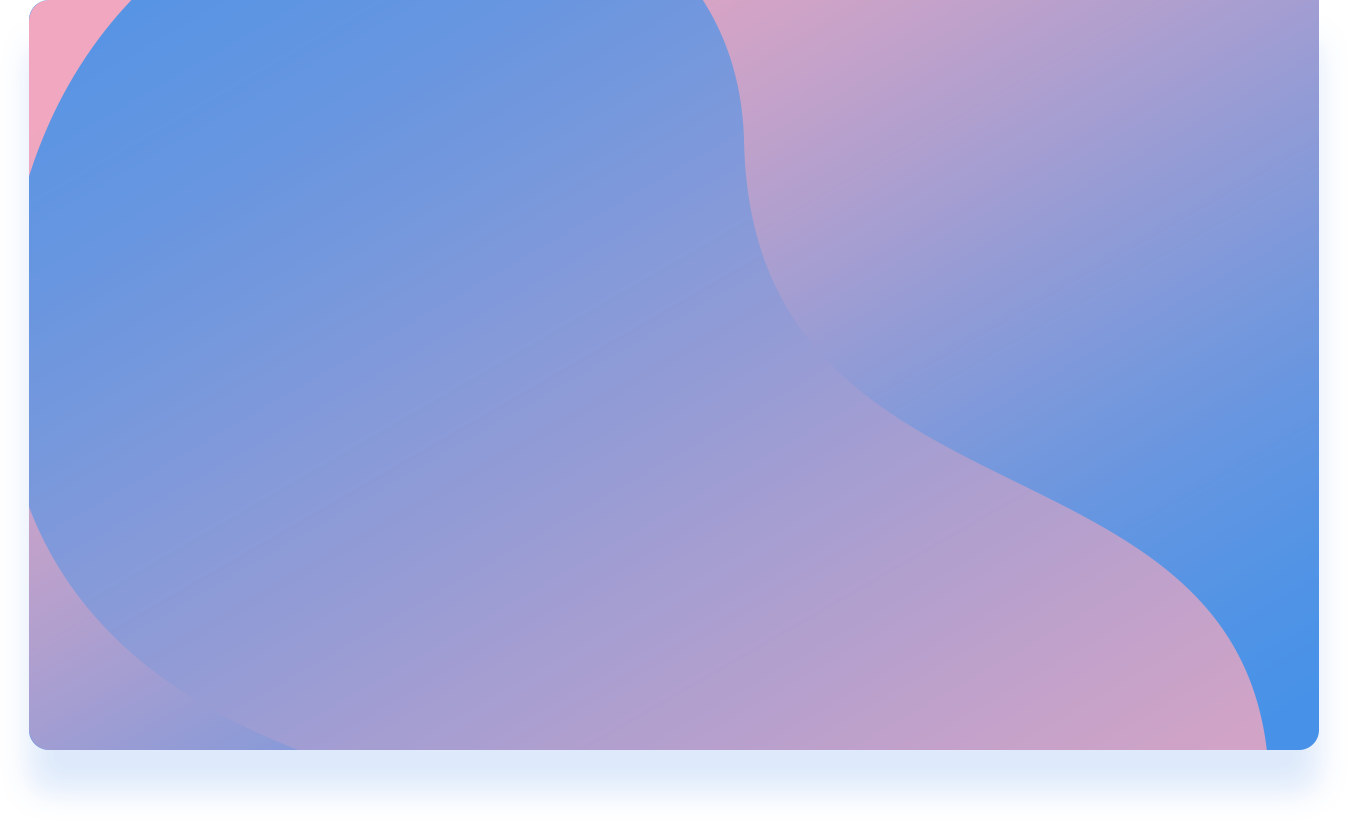
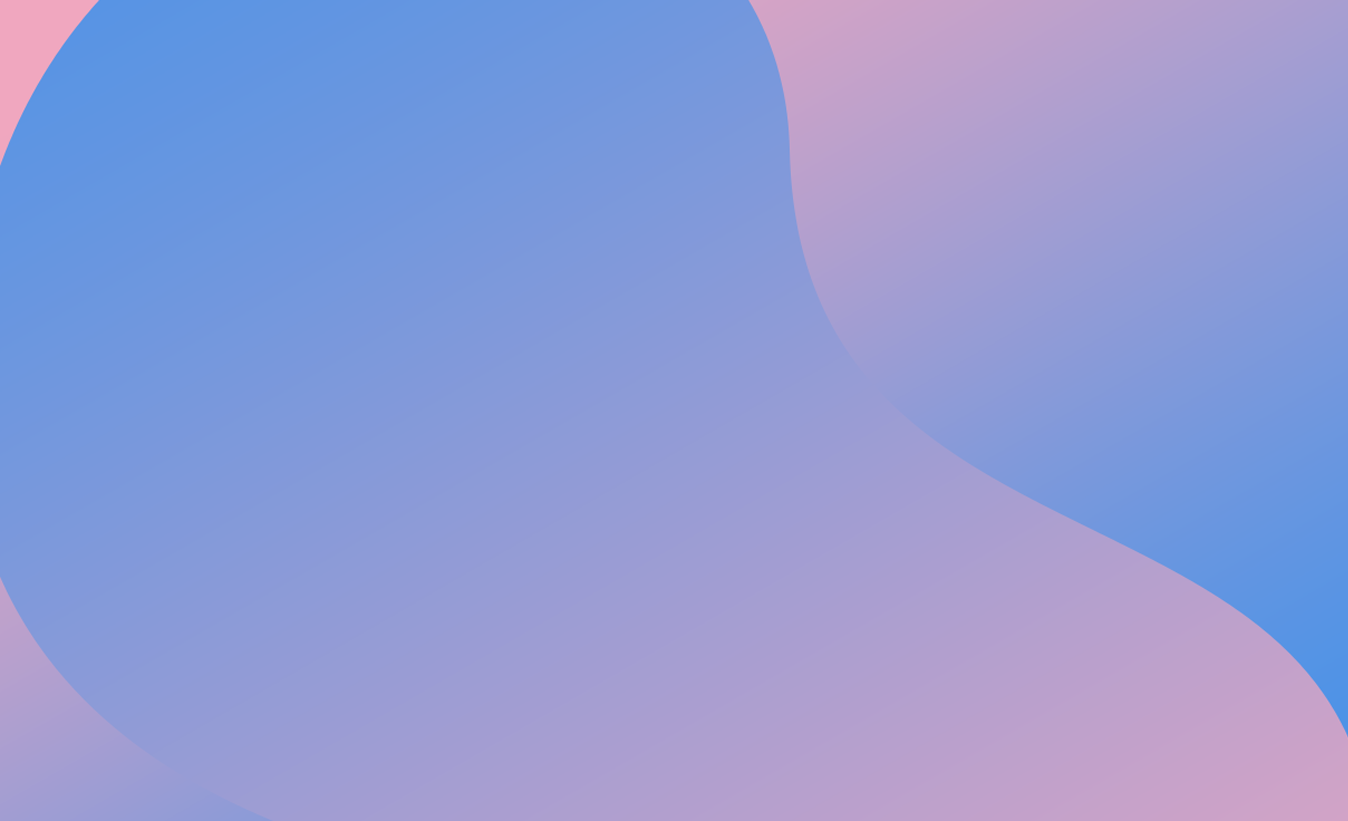
Added catalog and photo viewer

diff --git a/styles/style.scss b/styles/style.scss
@@ -25,6 +25,15 @@ ul {
     padding: 0;
 }
 
+:hover,
+::after {
+    transition: 0.3s;
+}
+
+:active {
+    transition: 0.1s;
+}
+
 hr {
     border: 1px solid #68a4ea;
 }
@@ -75,6 +84,7 @@ nav {
     list-style: none;
     display: flex;
     li {
+        position: relative;
         margin-left: 55px;
         a {
             font-weight: bold;
@@ -83,6 +93,30 @@ nav {
             color: white;
             outline: none;
         }
+
+        &:after {
+            display: none;
+            position: absolute;
+            bottom: -5px;
+            left: 50%;
+            margin-left: -30px;
+            content: '';
+            box-sizing: content-box;
+            width: 60px;
+            height: 2px;
+            background-color: #b09fce;
+        }
+
+
+        &:hover {
+            a {
+                color: #b09fce;
+            }
+            &:after {
+                display: block;
+            }
+        }
+
     }
 }
 
@@ -115,9 +149,8 @@ nav {
     background-image: url(../assets/img/template__bg.png);
     background-position-x: center;
     background-position-y: bottom;
-    background-size: cover;
     background-repeat: no-repeat;
-    
+    min-height: 1800px;
     padding-top: 90px;
     padding-bottom: 400px;
     .templates__title {
@@ -130,6 +163,32 @@ nav {
     background-color: white;
     border-radius: 16px 0px 16px 16px;
     box-shadow: 0px 3px 20px 0px rgba($color: #000000, $alpha: 0.4);
+}
+
+#overlay {
+    background: #000;
+    position: fixed;
+    top: 0;
+    left: 0;
+    height: 100%;
+    width: 100%;
+    opacity: 0.5;
+    z-index: 9990;
+}
+
+#property-item__modal {
+    display: flex;
+    justify-content: center;
+    align-items: center;
+    position: fixed;
+    z-index: 9999;
+    width: 100vw;
+    height: 100vh;
+    
+    img {
+        width: 50%;
+        height: auto;
+    }
 }
 
 .nav-link {
@@ -215,26 +274,23 @@ nav {
 
 footer {
     position: relative;
-    padding-top: 700px;
+    
     padding-bottom: 40px;
     background-image: url(../assets/img/footer__bg.png);
     background-repeat: no-repeat;
     background-size: cover;
-    background-position: center;
+    background-position: bottom;
 }
 
 .contact {
-    position: absolute;
-    top: -170px;
-    left: 50%;
-    width: 1200px;
-    margin-left: -600px;
     background-image: url(../assets/img/form__bg.png);
     background-repeat: no-repeat;
-    
-    padding: 130px 90px 85px 85px;
+    background-size: cover;
+    padding: 100px 90px 85px 85px;
     border-radius: 16px 0px 16px 16px;
     box-sizing: border-box;
+    margin-bottom: 140px;
+    box-shadow: 0px 8px 12px 5px rgba($color: #000000, $alpha: 0.4);
 }
 
 .contact__title-wrapper {

diff --git a/index.js b/index.js
@@ -22,9 +22,8 @@ import './assets/slick-1.8.1/slick/slick.css'
 
 
 
-$(document).ready(function(){
-    $('#reviews').slick({
-        
+$(function() {
+    $('#reviews').slick({    
         infinite: true,
         autoplay: true,
         autoplaySpeed: 1800,
@@ -33,18 +32,8 @@ $(document).ready(function(){
         slidesToScroll: 1,
         prevArrow: `<div class="prevButton"> <i class="fas fa-long-arrow-alt-left"></i> </div>`,
         nextArrow: `<div class="nextButton"> <i class="fas fa-long-arrow-alt-right"></i> </div>`,
-        centerMode: true,
-        variableWidth: false,
-        responsive: [
-            {
-              breakpoint: 1100,
-              settings: {
-                slidesToShow: 1,
-                slidesToScroll: 1,
-              }
-            }
-        ]
     });
+
     $('.offer').on('mousemove', (e) => {
       const x = e.pageX / $(window).width();
       const y = e.pageY / $(window).height();
@@ -58,6 +47,24 @@ $(document).ready(function(){
         'transform',
         'translate(-' + x * 30  + 'px, -' + y * 30 + 'px)' 
       )
+    });
 
+    $('.card').on('click', function() {
+      const src = $(this).find('img').attr('src');
+      $('body').append(' <div id="overlay"></div> <div id="property-item__modal"> <img src="'+src+'"> </div>');
+      $('#property-item__modal').css({
+        left: ( $(document).width() - $('#property-item__modal').outerWidth() ),
+        top: ( $(window).height() - $('#property-item__modal').outerHeight() )
+      })
+      $('#property-item__modal').fadeIn();
+    });
+
+    $('body').on('click', '#property-item__modal', function(event) {
+      event.preventDefault();
+      $('#property-item__modal, #overlay').fadeOut('fast', function() {
+        $('#property-item__modal, #overlay').remove();
+      })
     })
+    
+
   });

diff --git a/components/button/button.scss b/components/button/button.scss
@@ -20,4 +20,16 @@
         color: #2fc9ef;
         font-size: 1.25rem;
     }
+
+    &:hover {
+        border: 5px solid #b09fce;
+        outline-style: unset;
+    }
+
+    &:active {
+        a {
+            color: rgba($color: #b09fce, $alpha: 0.4);
+        }
+        
+    }
 }

diff --git a/components/property-item/property-item.scss b/components/property-item/property-item.scss
@@ -1,3 +1,7 @@
 .card {
     width: 17rem;
+    cursor: pointer;
+    &:hover {
+        border: 2px solid #2fc9ef;
+    }
 }
